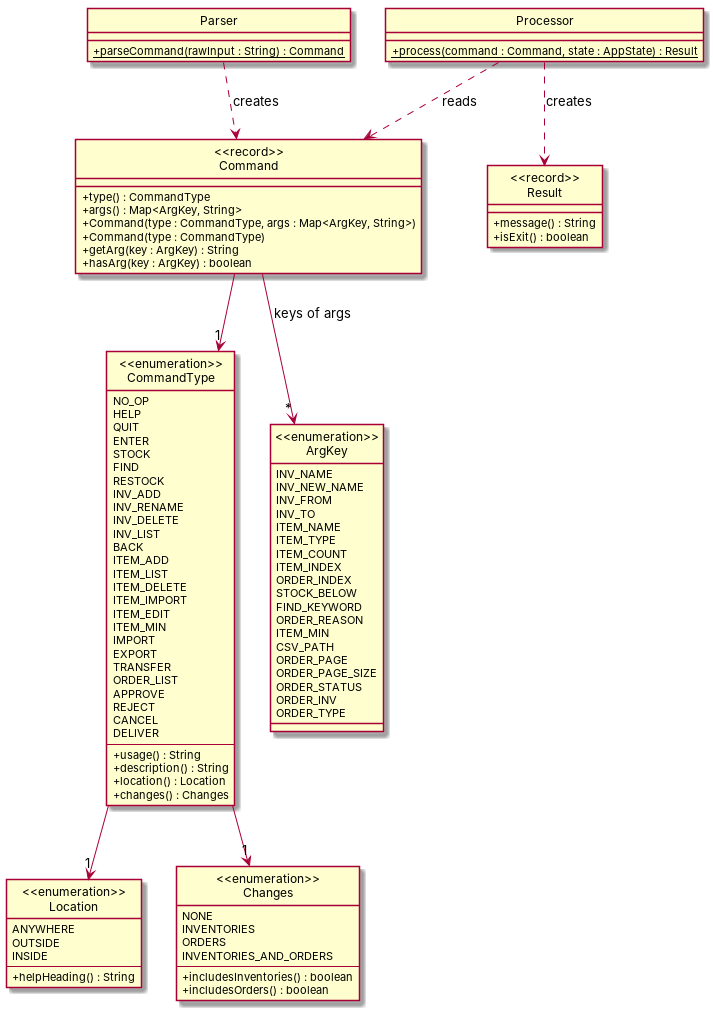
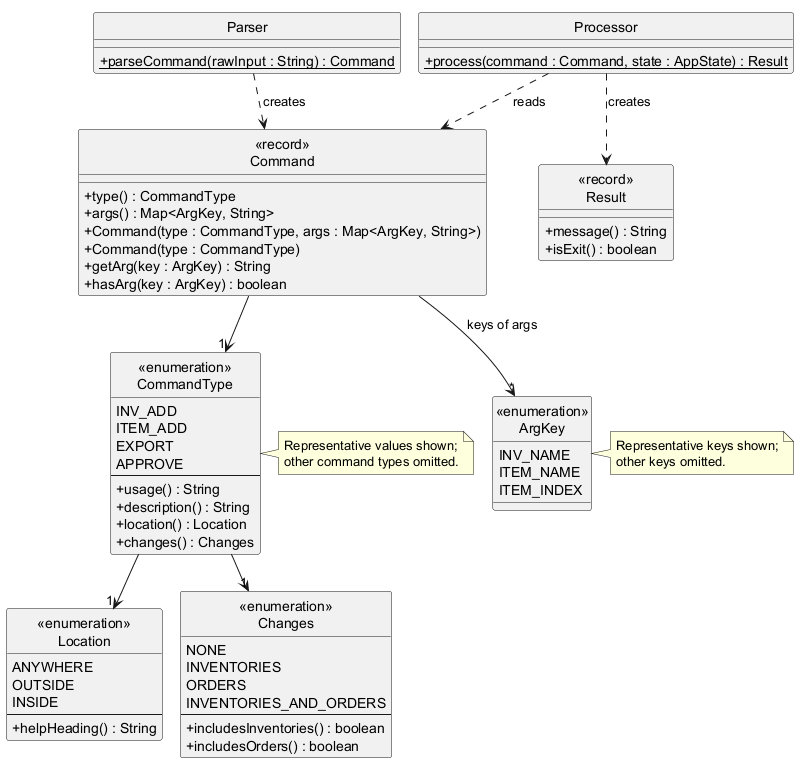
Simplify Developer Guide diagrams

diff --git a/docs/DeveloperGuide.md b/docs/DeveloperGuide.md
@@ -12,6 +12,9 @@
 
 ### Architecture
 
+This overview shows the main parts of the app. An arrow means the source part uses the target part; it does not
+represent a UML class association. Less important classes and dependencies are omitted here.
+
 ![Architecture diagram](images/ArchitectureDiagram.png)
 
 StockHolm is a command-line app built around one loop in `StockHolm.main`:
@@ -46,13 +49,13 @@ The main loop catches it in a single place and prints its message, so you never 
 
 ### Coupling between packages
 
-The diagram below shows which packages depend on which. Each box is a package with its classes, and each arrow
-means "some class in this package uses these classes of that package". Arrows into `exceptions` are left out because
-almost every package throws `StockHolmException`.
+The diagram below shows the main package dependencies. Each box is a package, and each arrow means that some class
+in the source package uses a class in the target package. Less important dependencies are omitted, including arrows
+into `exceptions`, because almost every package throws `StockHolmException`.
 
 ![Coupling diagram](images/CouplingDiagram.png)
 
-* **Dependencies point downwards.** `stockholm` (the main loop) sits on top and uses every layer. `command`,
+* **Most dependencies point downwards.** `stockholm` (the main loop) sits on top and uses every layer. `command`,
   `state`, `order` and `inventory` are at the bottom and never use the packages above them, so the data model can
   be tested without the parser, processor, UI or storage. The one two-way link is between `processor` and
   `storage`: `ItemHandlers` uses `storage.ItemCsvReader` to read `item import` files.
@@ -74,13 +77,15 @@ almost every package throws `StockHolmException`.
 
 ### Flow of one command
 
-The sequence diagram below shows `inv add Shop`, both when it succeeds and when the inventory already exists.
+The sequence diagram below shows a successful `inv add Shop`. If the name is already used,
+`InventoryHandlers.add` throws a `StockHolmException`, which the main loop prints as an error.
 
 ![Sequence diagram for inv add Shop](images/InvAddSequence.png)
 
 ### Command component
 
 Package `stockholm.command`: `Command`, `CommandType`, `ArgKey`, `Location`, `Changes`.
+The diagram shows representative `CommandType` and `ArgKey` values to keep the relationships readable.
 
 ![Command class diagram](images/CommandClassDiagram.png)
 
